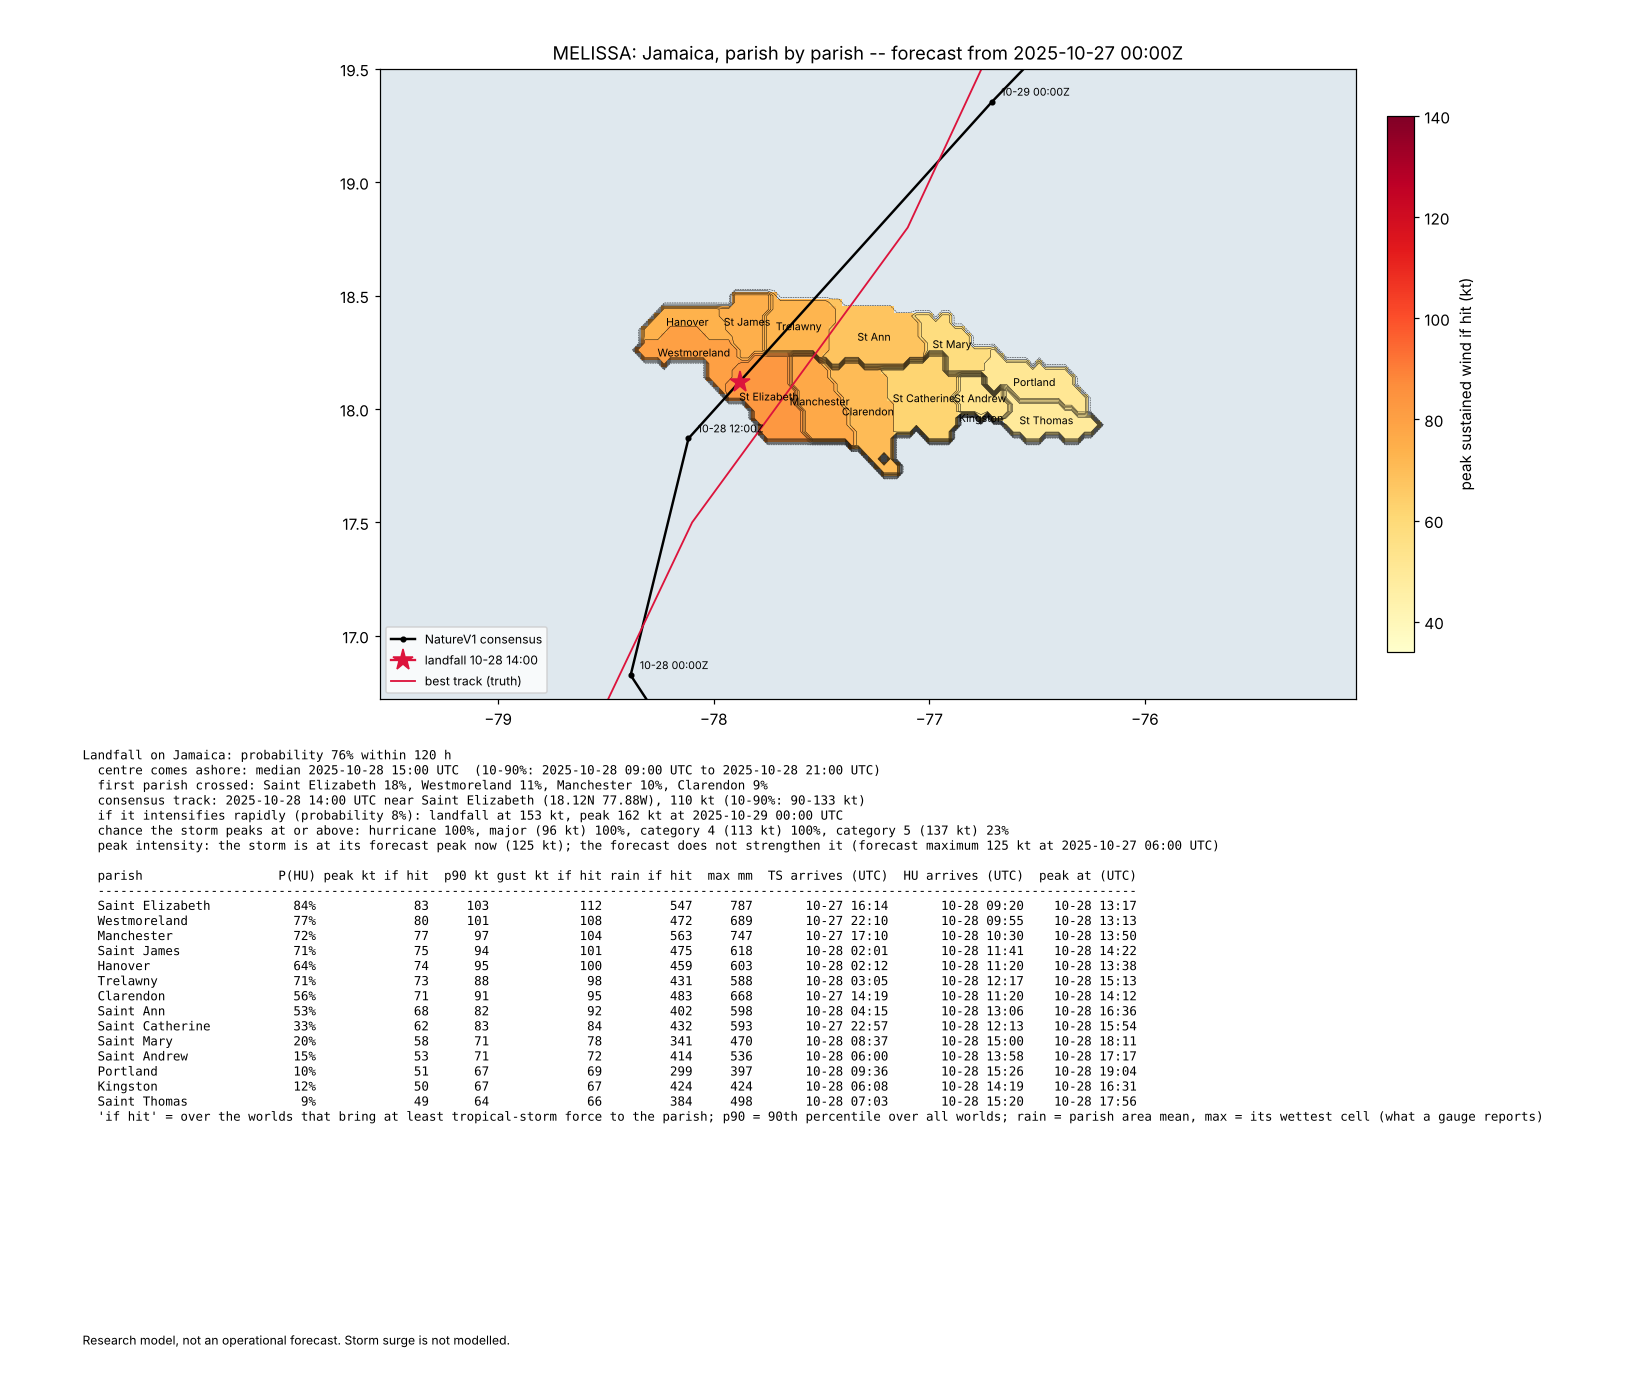
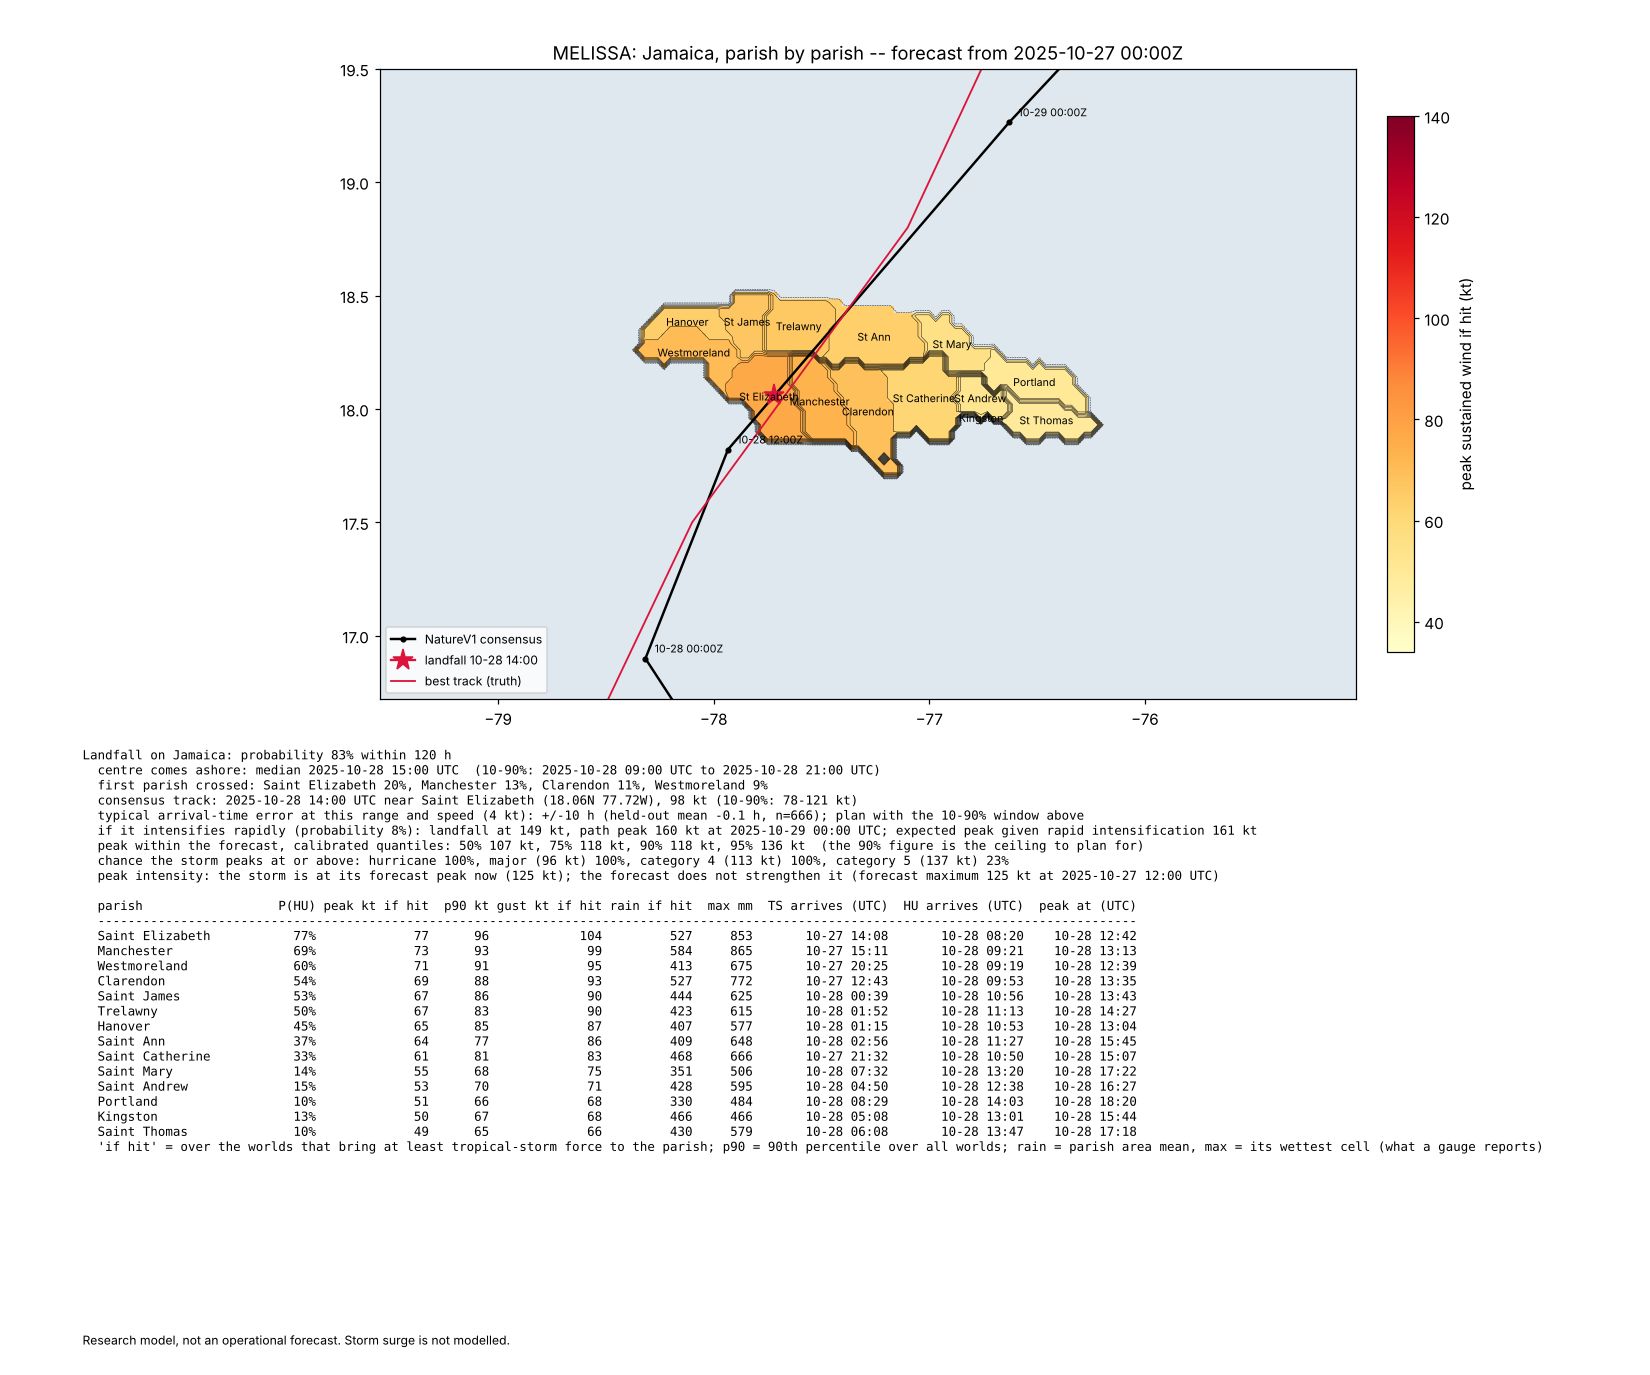
0.16: Melissa replayed with the guidance and the GFS rain member -- figures, the three-cycle table, what moved and what did not
Claude-Session: https://claude.ai/code/session_01J6bgxhzPaCJV6PiUzkT4Vd

diff --git a/natureweather/HF_README.md b/natureweather/HF_README.md
@@ -1143,6 +1143,37 @@ LGEM, GFS, GEFS mean), the archived models' track errors (HRES, Pangu, GraphCast
 extrapolation. `naturev1.cyclone.verify.compare` scores a new forecast against it on the same storms with the
 storm-block bootstrap. One long table, one scoring function: a claim about a hurricane model can be checked on it.
 
+**Melissa replayed with 0.16** (the same three cycles as 4.16; the GFS rain member and the NHC guidance in, 20,000-world
+swarm; "own" is our blend before the aids, "official" the NHC forecast from the same cycle):
+
+| forecast from | before landfall | P(landfall, Jamaica) | centre ashore, median (10-90%) | consensus landfall | intensity then (10-90%) | the RI branch (its probability) | P(peak ≥ cat 4 / cat 5) | track error 24 / 48 / 72 h: 0.16 (own; official) |
+|---|---|---|---|---|---|---|---|---|
+| 26 Oct 00 UTC | 65 h | 72% | 28 Oct 09 UTC (27 Oct 21 → 28 Oct 21) | 28 Oct 06 UTC, Clarendon | 96 kt (64-132) | 124 kt at landfall, peak 130 (23%) | 62% / 28% | 44 / 121 / 195 km (42 / 158 / 277; 34 / 123 / 124) |
+| 26 Oct 12 UTC | 53 h | 83% | 28 Oct 12 UTC (06 → 21) | 28 Oct 11 UTC, St Elizabeth | 101 kt (71-136) | 151 kt, peak 152 (19%) | 100% / 31% | 42 / 72 / 147 km (15 / 53 / 161; 40 / 54 / 73) |
+| 27 Oct 00 UTC | 41 h | 83% | 28 Oct 15 UTC (09 → 21) | 28 Oct 14 UTC, St Elizabeth, 18.06N 77.72W | 98 kt (78-121) | 149 kt, peak 160 (8%) | 100% / 23% | 54 / 71 / 212 km (38 / 69 / 215; 79 / 79 / 164) |
+
+![Melissa over Jamaica, parish by parish, from 27 October 00 UTC, 0.16](melissa_landfall.png)
+
+What moved against 4.16: the landfall probability (76 → 83% at 41 h), the far-west rain (Westmoreland 413 mm if hit
+against the 309 mm gauge where 0.15 said 689; Hanover 407 against 146 where 0.15 said 603; Manchester 584 / 865 against
+817, St Catherine 468 / 666 against 668, Kingston 466 against 567 -- the GFS's own rain pulls the total off the fast
+western crossing and onto the parishes that got it), the landfall point and time (14 UTC against about 17, the median
+15 UTC inside a 12-hour band, as before). What moved the wrong way, said plainly: Melissa was not the archive. On the
+two earlier cycles the NHC guidance was worse than our standalone blend at 24-48 h -- at 26 Oct 12 UTC HCCA sat 70 km
+off at 24 h where our blend had 15 km, so the mean sat at 42; the intensity aids were all low on this storm and pulled
+the 48 h intensity from 110 to 100 kt (26 Oct 12 UTC) and from 106 to 85 kt (27 Oct 00 UTC) against a truth of 165 and
+105 -- and the mean inherits what its members do. That is the price of a rule that lowers the error 11-13% over 626
+held-out cases; the parish Brier against the swath went from 0.061 to 0.073 at 41 h. The remedy a reader would ask for
+-- weights earned from the previous cycle, so that the member that caught the last turn keeps its vote -- was fitted
+on the tuning seasons and verified on held-out: it buys 0.9-1.1% at 12-24 h (significant at 12 h) and nothing from 36 h
+on, because on the fifth of held-out cases where the two disagree most it is our standalone that is wrong more often
+(24 h mean 133 km for ours alone, 93 for HCCA, 94 for the mean; the mean beats both at 48 and 72 h). The branch that
+was the storm -- 149-151 kt at landfall, peak 152-160 -- stayed on the page from 26 October with its probability, and
+the 95% peak quantile sat at 133-140 kt against the 165 kt that happened: the explosive case is still a tail event to
+this engine, as to the official forecast (140 kt at 24 h against 155). Parish timing still ran about four hours early
+(hurricane force into St Elizabeth at 08:20 UTC, the peak at 12:42, against an eyewall that arrived mid-afternoon), as
+the arrival window in the report now says it can. `melissa_jamaica.png` shows the four releases side by side.
+
 ## 5. Limitations
 
 - **Resolution.** 1.5° (~165 km) cannot resolve an eyewall, so intensity is the weakest output. The explicit

diff --git a/natureweather/README.md b/natureweather/README.md
@@ -329,6 +329,19 @@ reference's forecast on it is published as `benchmark_heldout_atlantic_2018_2020
 repository, with the scoring code, so that a new model can be checked on the same storms. Full tables in the model
 card, section 4.17.
 
+**Melissa, 27 October 00 UTC, 41 hours before landfall, replayed with 0.16:** Jamaica landfall probability 83% (0.15: 76%),
+the consensus ashore at 18.06N 77.72W on 28 October 14 UTC (actual: New Hope, 18.09N 77.97W, about 17 UTC), the swarm's
+median 15 UTC inside a 12-hour band; St Elizabeth 77%, Manchester 69%, Westmoreland 60%, Clarendon 54% for
+hurricane-force wind, the eastern parishes 10-15%; the far-west rain that 0.15 overdid is now near the gauges
+(Westmoreland 413 mm if hit against 309, Hanover 407 against 146) with Manchester 584 / 865 against 817 and St Catherine
+468 / 666 against 668. Said plainly, this storm was not the archive: on the two earlier cycles the NHC guidance was
+worse than our standalone blend at 24-48 h (26 Oct 12 UTC: HCCA 70 km off at 24 h where our blend had 15 km, so the mean
+sat at 42; the aids pulled the 48 h intensity from 110 to 100 kt against a truth of 165), and the mean inherits that --
+the price of a rule that is 11-13% better over 626 held-out cases. An adaptive weight earned from the previous cycle's
+verified error was fitted and verified on the archive: it buys 0.9-1.1% at 12-24 h and nothing beyond, because on the
+held-out cases where the two disagree most it is our standalone that is wrong more often (mean 94 km at 24 h against
+133 for ours alone and 93 for HCCA). ![](melissa_landfall.png)
+
 ## Not trained
 
 No weights here have seen real data. The architecture, losses, ingest and training loop are complete and
